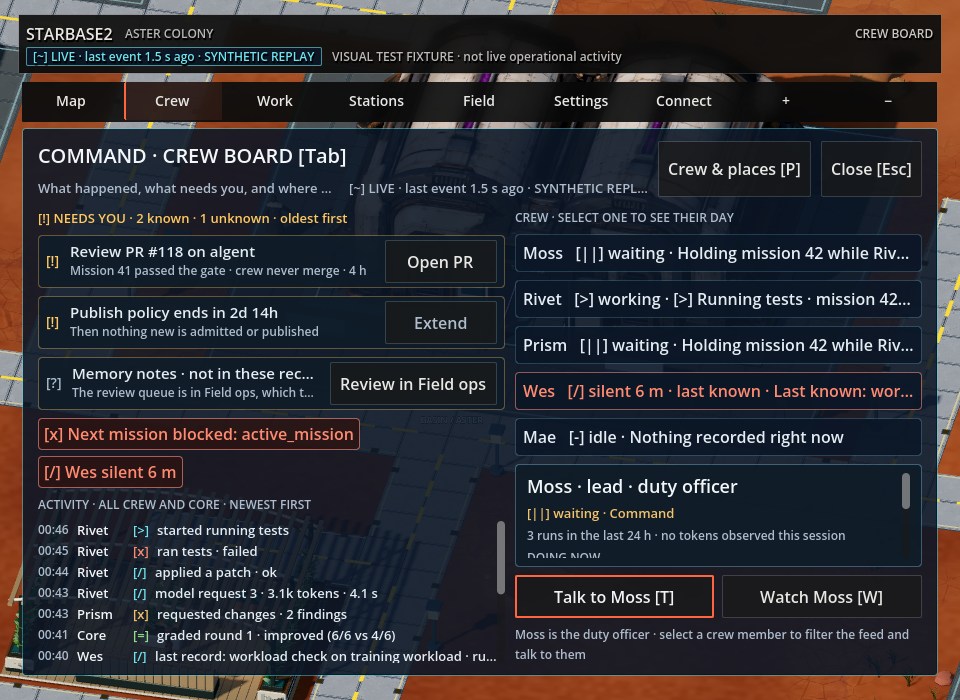
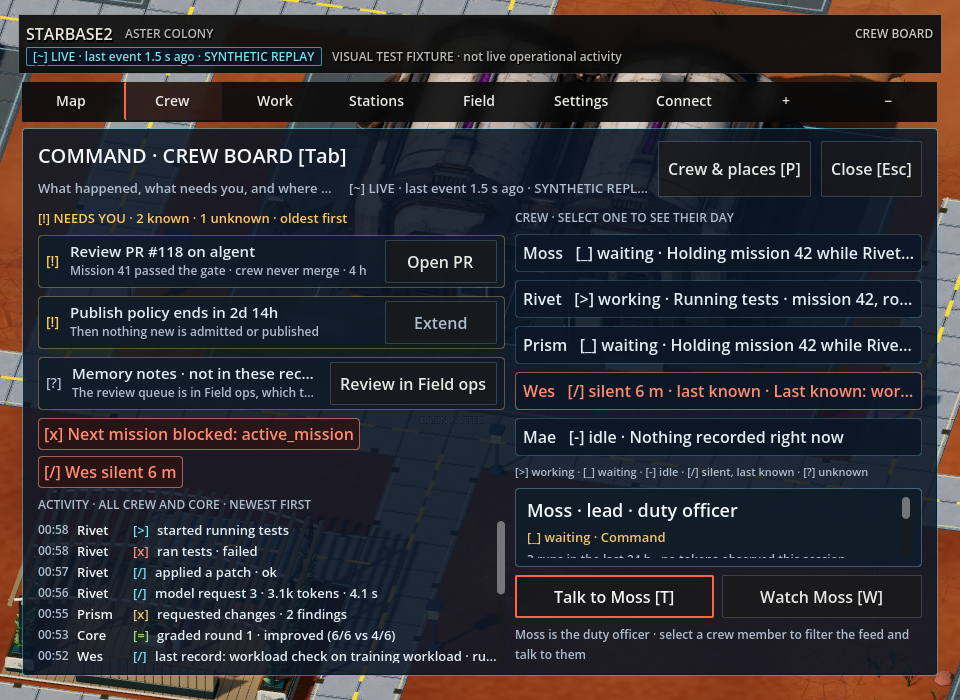
Mark waiting as [_] and explain crew board status markers
Waiting, paused and stopped states now use [_] instead of [||] on every
transparency page. Each crew board row carries a single marker (the
activity's own marker is dropped), a legend under the crew list explains
the markers, and each crew tooltip names its marker's meaning.

Claude-Session: https://claude.ai/code/session_019pMQ9Q5hdcwXMT5RS6fpPN

diff --git a/docs/workstation-screen.md b/docs/workstation-screen.md
@@ -27,8 +27,8 @@ crew strip and live overlays are hidden. The Controls help lists **N** and **U**
 | Pane | Source | Distinct states |
 |---|---|---|
 | Header | Crew name and role; mission id, repository, round `revision_count + 1` of `coordination.max_rounds`, state from the `/v7` summary; masthead freshness text from `freshness.gd` | `SYNTHETIC` in fixture replay |
-| Banner | Freshness, full-record read status, mission state | `[?] LAST KNOWN` (stream not live or `/v7` snapshot older than 15 s), `[=]` record read N ago, `[-]` loading, `[x]` read failed, `[?]` record not available, `[\|\|]` blocked/stopped, `[x]` failed |
-| Plan | Lead `task` and `rationale` from `stage_evidence.plan` (or the `lead-handoff` event); steps from the retained `coordination.assignments` plus publish and human review | `[=]` done, `[>]` current step, `[ ]` ahead, `[\|\|]` stopped, `[?]` unknown step or "recorded; Core decides next" |
+| Banner | Freshness, full-record read status, mission state | `[?] LAST KNOWN` (stream not live or `/v7` snapshot older than 15 s), `[=]` record read N ago, `[-]` loading, `[x]` read failed, `[?]` record not available, `[_]` blocked/stopped, `[x]` failed |
+| Plan | Lead `task` and `rationale` from `stage_evidence.plan` (or the `lead-handoff` event); steps from the retained `coordination.assignments` plus publish and human review | `[=]` done, `[>]` current step, `[ ]` ahead, `[_]` stopped, `[?]` unknown step or "recorded; Core decides next" |
 | Reviewer asked for | Findings, status and `missing_evidence` of the latest review at or before this round (`review-N` events); summary `stage_evidence.reviewing` without the full record | `[!]` changes requested, `[=]` accepted, `[?]` abstained or not reported, `[x]` patch rejected before execution, `[-]` no review yet |
 | Why this step | Nothing: model reasoning is not stored | Always `[?] Not recorded`, citing [ADR 0015](adr/0015-agent-reasoning-trace-evidence.md) (proposed) |
 | Live diff | The unified `diff` of the latest `testing-N` event, rendered line by line with `+`/`-` kept in the text | `[-]` no source change (empty diff), `[?]` diff not recorded, stats only from the summary when the full record is missing, "round N (last retained; round N+1 not submitted)" when the current round has no candidate yet, `[x]` rejected before execution |

diff --git a/docs/handoff-dialogue.md b/docs/handoff-dialogue.md
@@ -43,7 +43,7 @@ used as a reply, and no reply text is ever written for the crew. The states are:
 | Next round recorded | `[=] round N+1 submitted` and the quoted rationale |
 | Revising, stream live | `[>] revising · reply not recorded yet` |
 | Revising, stream not live | `[?] last known · reply not recorded` |
-| Mission blocked, failed or stopped | `[\|\|] no reply · mission blocked` (failed uses `[x]`) |
+| Mission blocked, failed or stopped | `[_] no reply · mission blocked` (failed uses `[x]`) |
 | Review accepted | `[-] no reply needed` |
 | Otherwise | `[?] reply not recorded` |
 
@@ -53,7 +53,7 @@ member recorded with the candidate. The footer lists any reassignment.
 **Stage track:** plan → implement rN → test rN → review rN → ↺ round N → N+1 → …
 → ready to publish → Reality Gate · branch + PR → awaiting human review. Each chip
 has a glyph and text: `[=]` done, `[>]` current, `[!]` changes, `[x]` failed,
-`[||]` blocked, `[?]` unknown, `[ ]` not reached. A past round's test verdict comes
+`[_]` blocked, `[?]` unknown, `[ ]` not reached. A past round's test verdict comes
 from the stream's `mission.stage` event when this client saw it; otherwise the chip
 reads "verdict not retained", because Core keeps grading only for the current round.
 The footer gives the mission objective, the revision loops used against the limit,

diff --git a/docs/crew-board.md b/docs/crew-board.md
@@ -57,7 +57,8 @@ Left side:
 Right side:
 
 - **Crew**, one line each: Moss (lead, duty officer), Rivet, Prism, Wes, Mae, with
-  glyph, state and what they are doing. **Enter** selects or clears a member;
+  one status marker, state and what they are doing. A legend under the list
+  explains the markers, and each tooltip names its marker's meaning. **Enter** selects or clears a member;
   selecting filters the feed to that member (**Show all crew ×** clears it).
 - **Their day**: role, state and place, runs in the last 24 h, tokens, *Doing now*,
   *Up next*, *Done · last 24 h*, and **Talk [T]** and **Watch in the world [W]**.
@@ -68,7 +69,7 @@ Right side:
 | State | Glyph | Rule |
 |---|---|---|
 | working | `[>]` | open `/v2` record, or the V7 stage is assigned to this role; the verb comes from a fresh activity note only while the stream is live |
-| waiting | `[\|\|]` | on the active V7 mission, another role holds the stage |
+| waiting | `[_]` | on the active V7 mission, another role holds the stage |
 | queued | `[...]` | only queued `/v2` records |
 | idle | `[-]` | no open record and no active mission |
 | silent | `[/]` | an open `/v2` record has not changed for 5 min or more (relative to the snapshot's `observed_at`) · last known |
